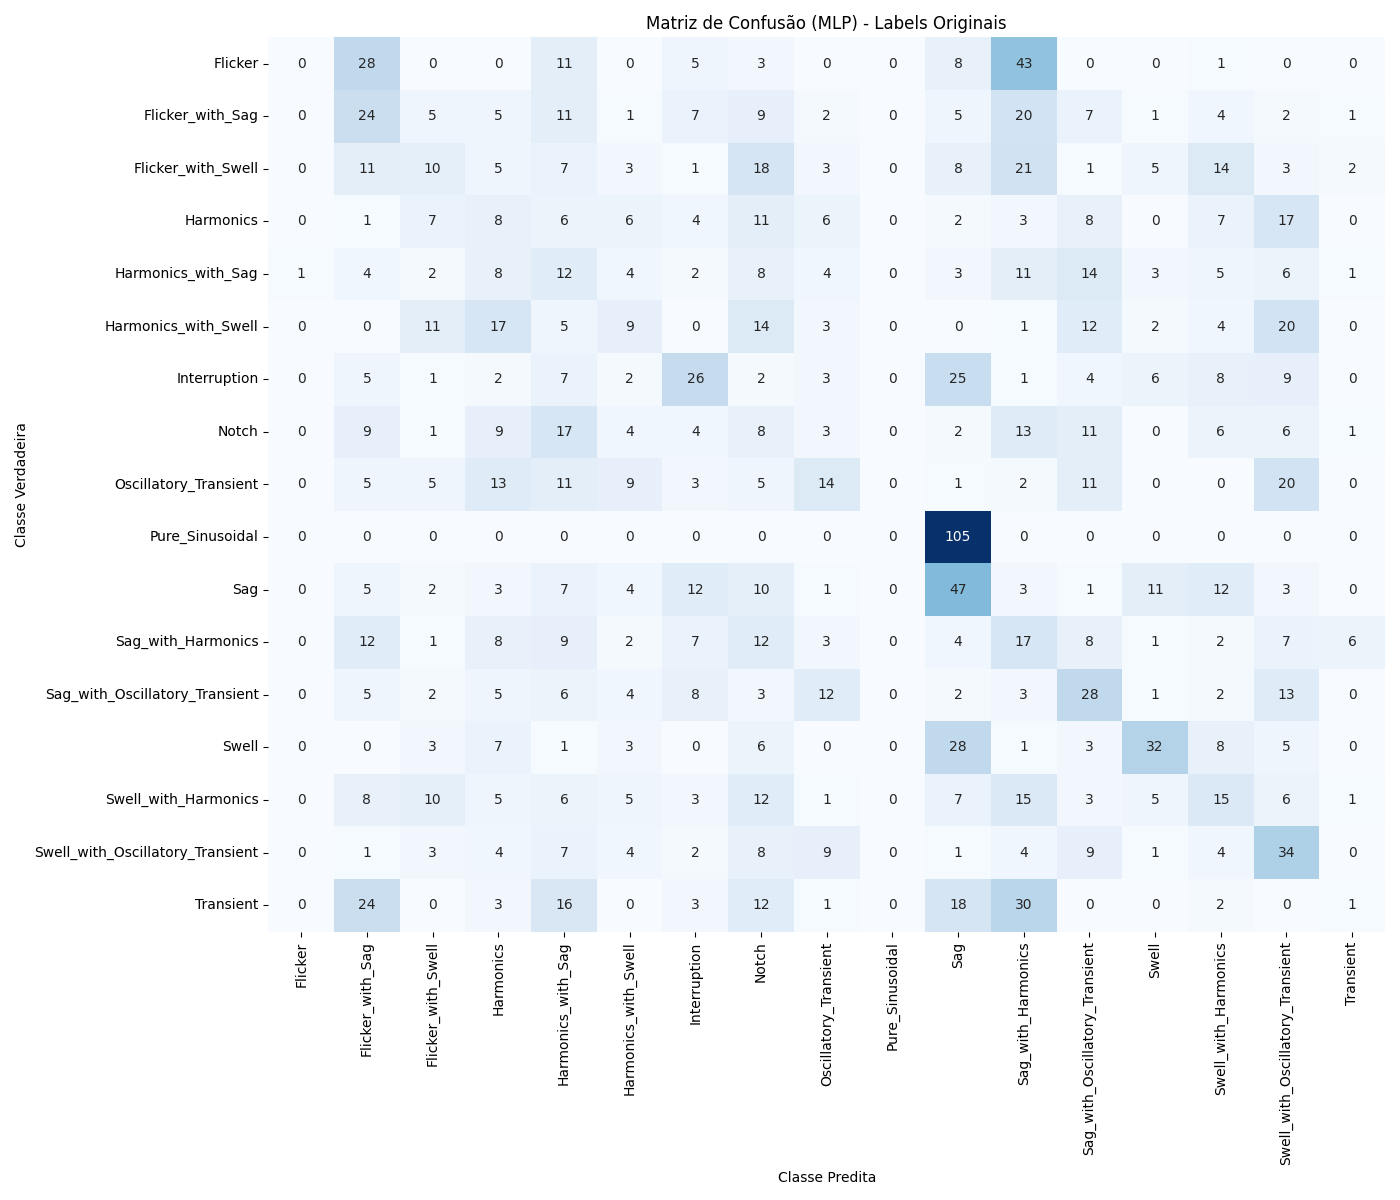
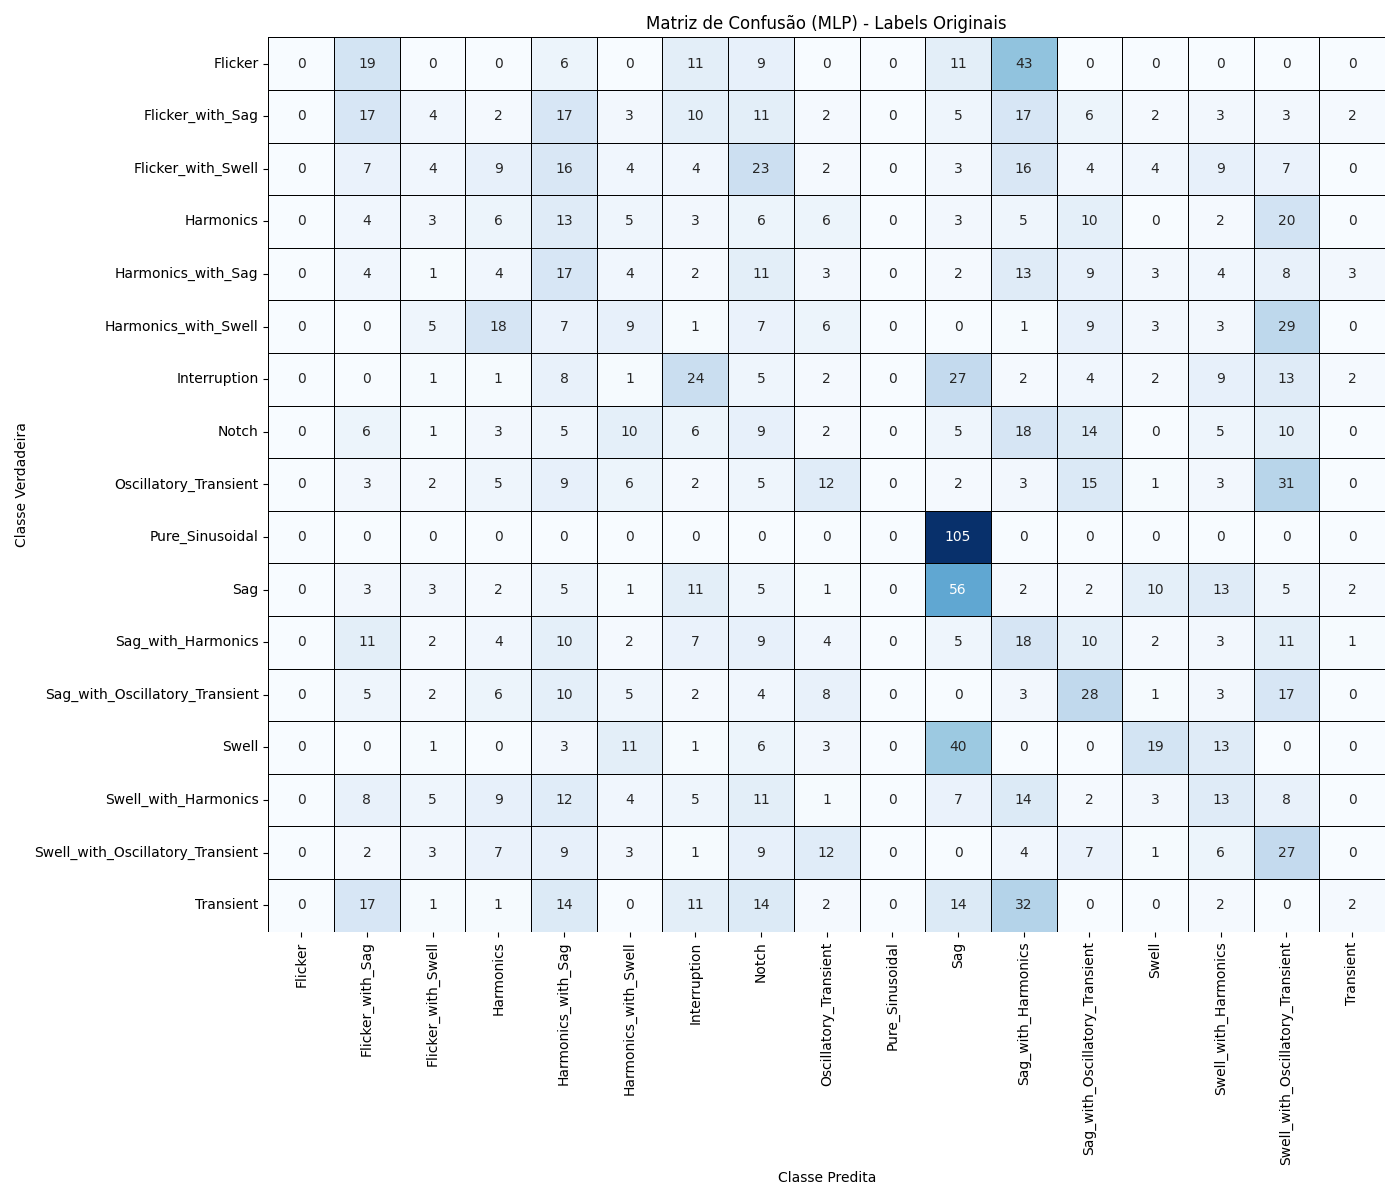
confusion matrixes done

diff --git a/compressed_data_classification/models/mlp_training.py b/compressed_data_classification/models/mlp_training.py
@@ -146,11 +146,13 @@ def mlp_training(X_train, y_train, X_test, y_test, X, technique, label_encoder):
 
     plt.figure(figsize=(14, 12))
     sns.heatmap(
-        cm,
-        annot=True,
-        fmt='d',
+        cm, 
+        annot=True, 
+        fmt='d', 
         cmap='Blues',
         cbar=False,
+        linewidths=.5,
+        linecolor='black',
         xticklabels=label_encoder.classes_,
         yticklabels=label_encoder.classes_
     )

diff --git a/compressed_data_classification/models/svm_with_rbf_training.py b/compressed_data_classification/models/svm_with_rbf_training.py
@@ -169,7 +169,9 @@ def svc_rbf_training(X_train, y_train, X_test, y_test, X, technique, label_encod
         cmap='Blues',
         cbar=False,
         linewidths=.5,
-        linecolor='black'
+        linecolor='black',
+        xticklabels=label_encoder.classes_,
+        yticklabels=label_encoder.classes_
     )
     plt.title("Matriz de Confusão (SVC RBF) - Classificação 17 Classes")
     plt.ylabel("Classe Verdadeira")
